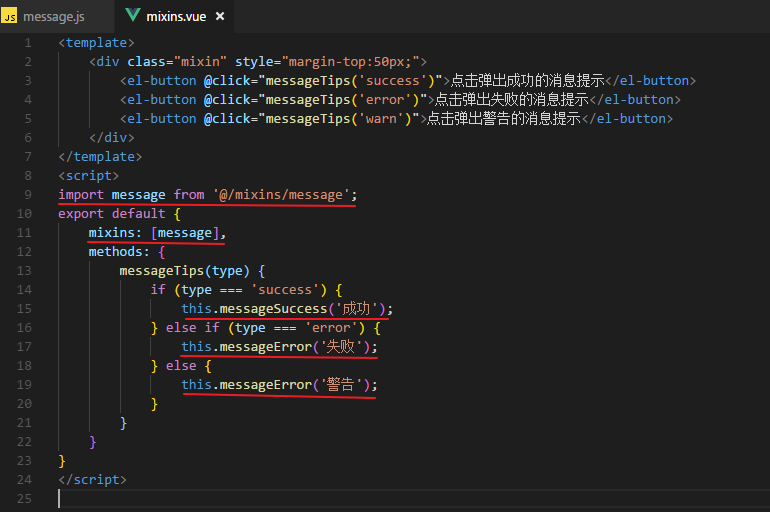
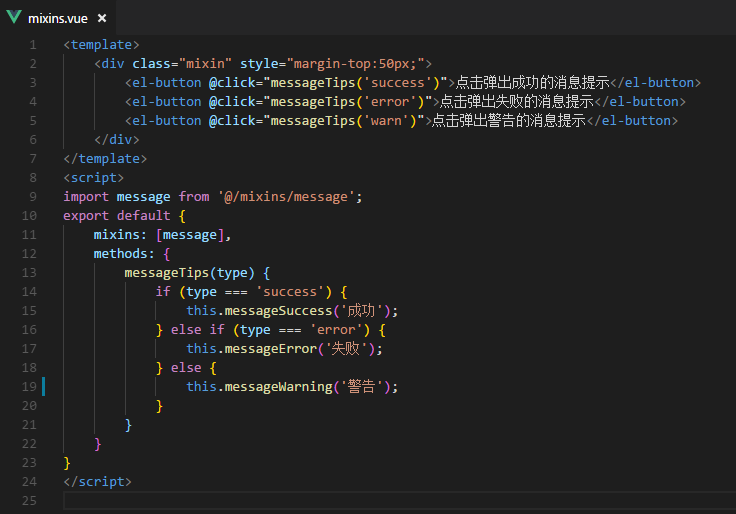
新增mestips样式

diff --git a/source/_posts/vuemixins.md b/source/_posts/vuemixins.md
@@ -1,8 +1,8 @@
 ---
-title: vuemixins
+title: vue混入mixins用法小结
 dropcap: true
 date: 2019-05-28 16:45:47
-tags: vue2.x
+tags: [vue2.x, mixins]
 categories: vue
 ---
 距离上次更新博客将近半年了，因为年后开始做一个大项目，多个产品经理各自负责一个或多个模块，一个模块相当于之前项目的整体。这次我一个人做一个模块，压力有些大，每天只想着把功能做出来，没有时间总结。
@@ -34,5 +34,11 @@ categories: vue
 ### 调用
 在需要用到的文件中引入message.js，然后注册，最后调用就OK。如图所示：
 ![](vuemixins/mixins1.png)
-点击相应的按钮弹出相应类型的消息提示（样式问题在下一篇博客中解决）：
+点击相应的按钮弹出相应类型的消息提示：
 ![](vuemixins/mixins2.png)
+
+### 样式调整
+这里我写了两个样式文件，一个是变量，一个是我们这里需要的消息提示的样式（里面用到了变量），都在main.js中引用。
+![](vuemixins/multiplescss.png)
+再刷新页面点击相应的按钮弹出相应类型的消息提示：
+![](vuemixins/tips.png)

diff --git a/source/_posts/sassExtract.md b/source/_posts/sassExtract.md
@@ -1,8 +1,8 @@
 ---
-title: webpack+vue+sass项目中，sass提取全局引用
+title: webpack3.x+vue2.x+sass项目中，sass提取全局引用
 dropcap: true
 date: 2018-12-14 21:33:40
-tags: ['vue', 'sass', 'webpack']
+tags: ['vue2.x', 'sass', 'webpack3.x']
 categories: webpack
 ---
 接近年底，工作没有那么忙，业余时间就比较多了，就想着把小demo整合到一起，自己搭建一个项目。
